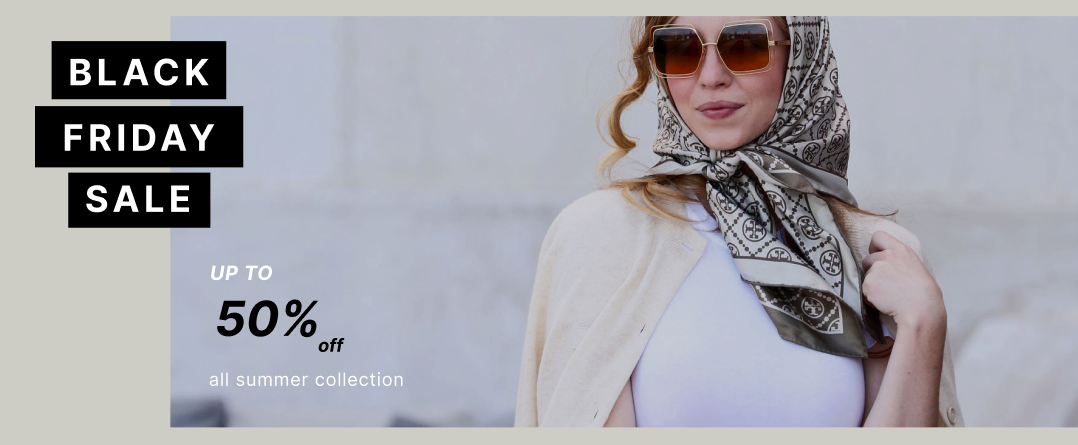
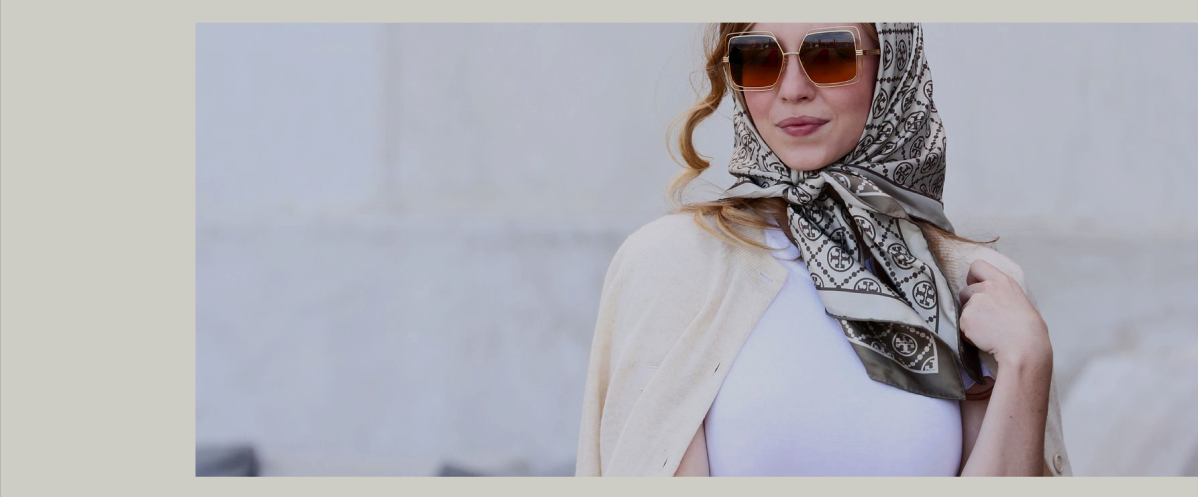
slider

diff --git a/CP3407 Project/resources/views/home.blade.php b/CP3407 Project/resources/views/home.blade.php
@@ -7,6 +7,8 @@
     <meta http-equiv="X-UA-Compatible" content="ie=edge">
     <title>Home</title>
     @vite('resources/css/app.css')
+    <script type="module" src="https://unpkg.com/ionicons@7.1.0/dist/ionicons/ionicons.esm.js"></script>
+    <script nomodule src="https://unpkg.com/ionicons@7.1.0/dist/ionicons/ionicons.js"></script>
 
 </head>
 
@@ -16,28 +18,57 @@
 
     <div id="indicators-carousel" class="relative w-full" data-carousel="static">
         <div class="relative overflow-hidden h-[600px]">
-            <div class="duration-700 ease-in-out" data-carousel-item="active">
+            <div class="duration-700 ease-in-out h-full" data-carousel-item="active">
                 <img src="/images/slider 1.png"
-                    class="absolute block w-full h-[600px] bg-cover -translate-x-1/2 -translate-y-1/2 top-1/2 left-1/2"
+                    class="relative h-full w-full"
+                    alt="...">
+                    <div class="absolute top-[48px] left-20 text-center">
+                        <div class="block mb-4">
+                            <span class="text-5xl font-bold tracking-widest bg-black text-white inline-block p-4">BLACK</span>
+                        </div>
+                        <div class="block mb-4">
+                            <span class="text-5xl font-bold tracking-widest bg-black text-white inline-block p-4 px-8">FRIDAY</span>
+                        </div>
+                        <div class="block mb-4">
+                            <span class="text-5xl font-bold tracking-widest bg-black text-white inline-block p-4">SALE</span>
+                        </div>
+                    </div>
+
+                    <div class="absolute bottom-20 left-80">
+                        <div class="block mb-3">
+                            <span class="text-3xl font-medium tracking-widest text-white inline-block italic">UP TO </span>
+                        </div>
+
+                            <span class="text-6xl font-bold  text-black block italic mb-5">50% <span class="text-xl">off</span> </span>
+
+                        <div class="block">
+                            <span class="text-3xl font-regular  text-white inline-block">all summer collection</span>
+                        </div>
+                    </div>
+
+                    <div class="absolute bottom-20 left-16 italic tracking-wider">
+                    <a href="/shop" class="text-3xl underline">Shop</a><br>
+                    <a href="/shop" class="text-3xl underline mx-8">Now</a>
+                </div>
+
+            </div>
+            <div class="duration-700 ease-in-out" data-carousel-item>
+                <img src="/images/arrival.jpg"
+                    class="absolute block w-full h-full object-cover -translate-x-1/2 -translate-y-1/2 top-1/2 left-1/2"
                     alt="...">
             </div>
             <div class="duration-700 ease-in-out" data-carousel-item>
-                <img src="/images/Member promotion.png"
+                <img src="/images/member promotion.jpg"
                     class="absolute block w-full h-full -translate-x-1/2 -translate-y-1/2 top-1/2 left-1/2"
                     alt="...">
             </div>
             <div class="duration-700 ease-in-out" data-carousel-item>
-                <img src="/images/slider 1.png"
-                    class="absolute block w-full h-full -translate-x-1/2 -translate-y-1/2 top-1/2 left-1/2"
+                <img src="/images/fashion slide.jpg"
+                    class="absolute block w-full h-full object-cover -translate-x-1/2 -translate-y-1/2 top-1/2 left-1/2"
                     alt="...">
             </div>
             <div class="duration-700 ease-in-out" data-carousel-item>
-                <img src="/images/slider 1.png"
-                    class="absolute block w-full h-full -translate-x-1/2 -translate-y-1/2 top-1/2 left-1/2"
-                    alt="...">
-            </div>
-            <div class="duration-700 ease-in-out" data-carousel-item>
-                <img src="/images/slider 1.png"
+                <img src="/images/fashion week.jpg"
                     class="absolute block w-full h-full -translate-x-1/2 -translate-y-1/2 top-1/2 left-1/2"
                     alt="...">
             </div>
@@ -90,22 +121,16 @@
                 <div class="p-4">
                     <div class="w-full">
                         <img src="images/new arrival dress.webp" alt="" class="w-full h-[26rem] object-cover">
-                        <div class="mt-2">
+                        <div class="px-3 py-1 h-1/4 w-full mt-2">
+                            <div class="flex justify-between items-center mb-2">
+                                <p class="text-white">Classic Velvet Dress</p>
+                                <div class="flex justify-end text-xl text-white">
+                                    <ion-icon name="heart-outline" class=" like"></ion-icon>
+                                </div>
+                            </div>
                             <div class="flex justify-between items-center">
-                                <div class="text-white">
-                                    <h6>Classic Velvet Dress</h6>
-                                    <h6>$70</h6>
-                                </div>
-                                <div>
-                                    <a href="#" class="text-white hover:text-gray-400">
-                                        <svg xmlns="http://www.w3.org/2000/svg" fill="none" viewBox="0 0 24 24"
-                                            stroke-width="1.5" stroke="currentColor" class="w-6 h-6"
-                                            aria-hidden="true">
-                                            <path stroke-linecap="round" stroke-linejoin="round"
-                                                d="M21 8.25c0-2.485-2.099-4.5-4.688-4.5-1.935 0-3.597 1.126-4.312 2.733-.715-1.607-2.377-2.733-4.313-2.733C5.1 3.75 3 5.765 3 8.25c0 7.22 9 12 9 12s9-4.78 9-12Z" />
-                                        </svg>
-                                    </a>
-                                </div>
+                                <p class="text-white">$50</p>
+                                <button class="text-sm bg-white text-black px-2 py-1 rounded-md">Buy Now</button>
                             </div>
                         </div>
                     </div>
@@ -115,22 +140,16 @@
                 <div class="p-4">
                     <div class="w-full">
                         <img src="images/new arrival top.webp" alt="" class="w-full h-[26rem] object-cover">
-                        <div class="mt-2">
-                            <div class="flex justify-between items-center">
-                                <div class="text-white">
-                                    <h6>Elegant Blouse</h6>
-                                    <h6>$70</h6>
+                        <div class="px-3 py-1 h-1/4 w-full mt-2">
+                            <div class="flex justify-between items-center mb-2">
+                                <p class="text-white">Elegant Blouse</p>
+                                <div class="flex justify-end text-xl text-white">
+                                    <ion-icon name="heart-outline" class=" like"></ion-icon>
                                 </div>
-                                <div>
-                                    <a href="" class="text-white hover:text-gray-400">
-                                        <svg xmlns="http://www.w3.org/2000/svg" fill="none" viewBox="0 0 24 24"
-                                            stroke-width="1.5" stroke="currentColor" class="w-6 h-6"
-                                            aria-hidden="true">
-                                            <path stroke-linecap="round" stroke-linejoin="round"
-                                                d="M21 8.25c0-2.485-2.099-4.5-4.688-4.5-1.935 0-3.597 1.126-4.312 2.733-.715-1.607-2.377-2.733-4.313-2.733C5.1 3.75 3 5.765 3 8.25c0 7.22 9 12 9 12s9-4.78 9-12Z" />
-                                        </svg>
-                                    </a>
-                                </div>
+                            </div>
+                            <div class="flex justify-between items-center  ">
+                                <p class="text-white">$50</p>
+                                <button class="text-sm bg-white text-black px-2 py-1 rounded-md">Buy Now</button>
                             </div>
                         </div>
                     </div>
@@ -140,29 +159,25 @@
                 <div class="p-4">
                     <div class="w-full">
                         <img src="images/new arrival skirt.jpg" alt="" class="w-full h-[26rem] object-cover">
-                        <div class="mt-2">
-                            <div class="flex justify-between items-center">
-                                <div class="text-white">
-                                    <h6>Long Aesthetic Dress</h6>
-                                    <h6>$70</h6>
+                        <div class="px-3 py-1 h-1/4 w-full mt-2">
+                            <div class="flex justify-between items-center mb-2">
+                                <p class="text-white">Long Aesthetic Dress</p>
+                                <div class="flex justify-end text-xl text-white">
+                                    <ion-icon name="heart-outline" class=" like"></ion-icon>
                                 </div>
-                                <div>
-                                    <a href="" class="text-white hover:text-gray-400">
-                                        <svg xmlns="http://www.w3.org/2000/svg" fill="none" viewBox="0 0 24 24"
-                                            stroke-width="1.5" stroke="currentColor" class="w-6 h-6"
-                                            aria-hidden="true">
-                                            <path stroke-linecap="round" stroke-linejoin="round"
-                                                d="M21 8.25c0-2.485-2.099-4.5-4.688-4.5-1.935 0-3.597 1.126-4.312 2.733-.715-1.607-2.377-2.733-4.313-2.733C5.1 3.75 3 5.765 3 8.25c0 7.22 9 12 9 12s9-4.78 9-12Z" />
-                                        </svg>
-                                    </a>
-                                </div>
+                            </div>
+                            <div class="flex justify-between items-center  ">
+                                <p class="text-white">$70</p>
+                                <button class="text-sm bg-white text-black px-2 py-1 rounded-md">Buy Now</button>
                             </div>
                         </div>
                     </div>
                 </div>
             </div>
-            <div>
+            <div class="mt-2">
+                <a href="/shop">
                 <button class="bg-white text-black rounded-lg p-2 px-4 mb-8 font-semibold">View All</button>
+            </a>
             </div>
         </div>
         <div class="bg-[#CDCDC5] opacity-92">
